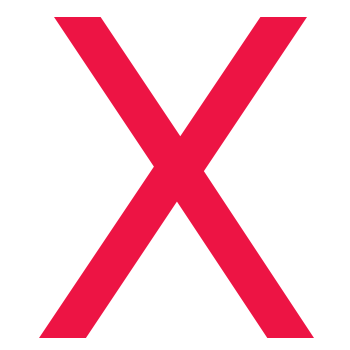
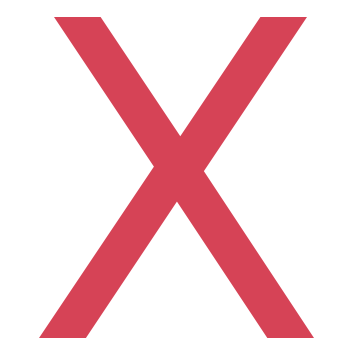
updated the reset button size to large, updated the color of the tic tac toe title

Changed region(s): [[0.1143, 0.0286, 0.9143, 0.9714]]

diff --git a/index.html b/index.html
@@ -55,7 +55,7 @@
       </div>
     </div>
     <form>
-      <input class="btn btn-default" type="reset" value="Reset" id="reset_button">
+      <input class="btn btn-default btn-lg" type="reset" value="Reset" id="reset_button">
     </form>
   </body>
 </html>

diff --git a/css/style.css b/css/style.css
@@ -7,7 +7,7 @@ h1 {
   font-size: 70px;
 }
 #tac {
-  color: rgb(234, 27, 72);
+  color: rgb(244,140,66);
 }
 .box {
   border: 5px solid rgb(244, 140, 66);
